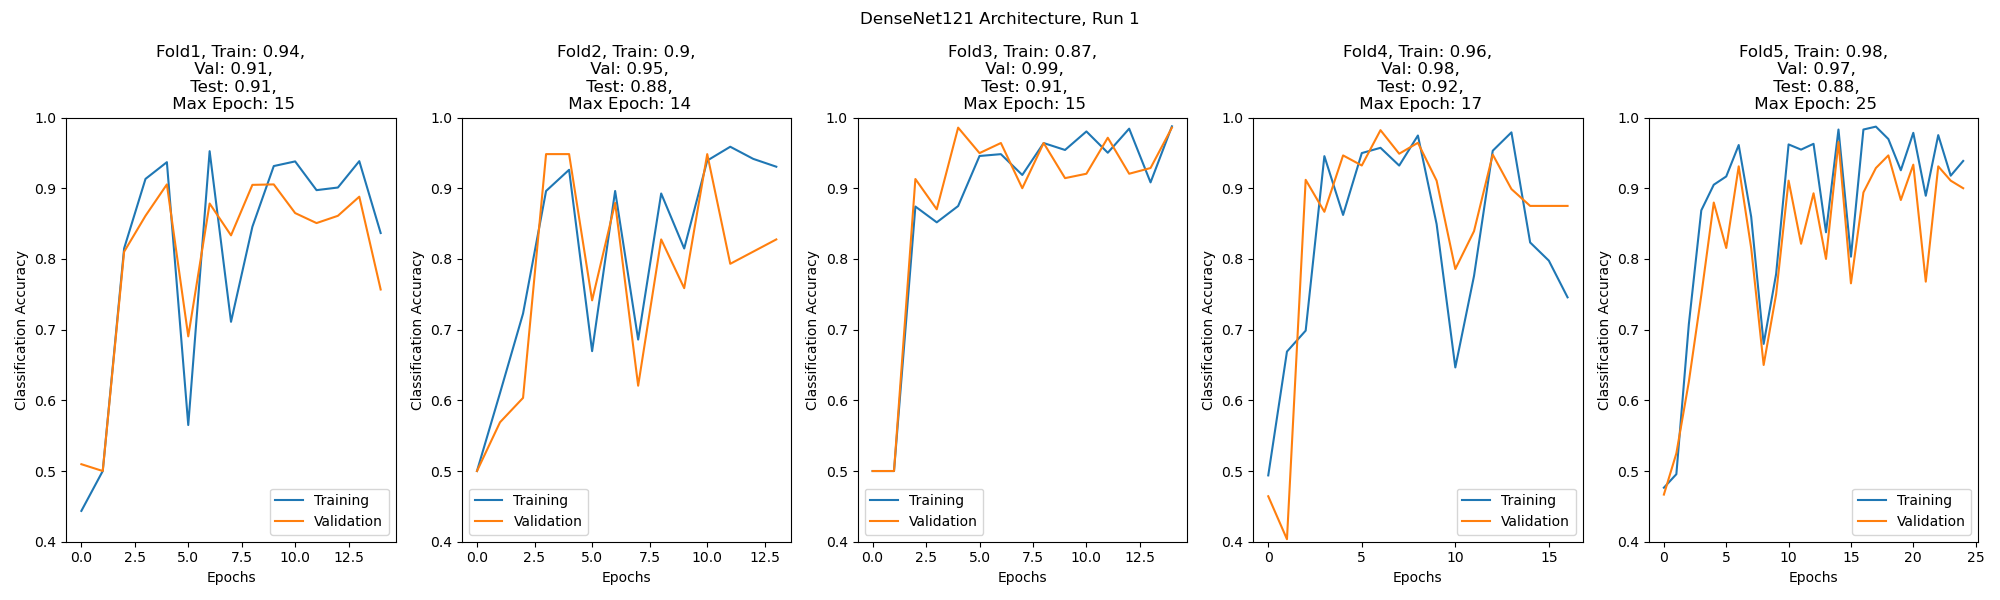
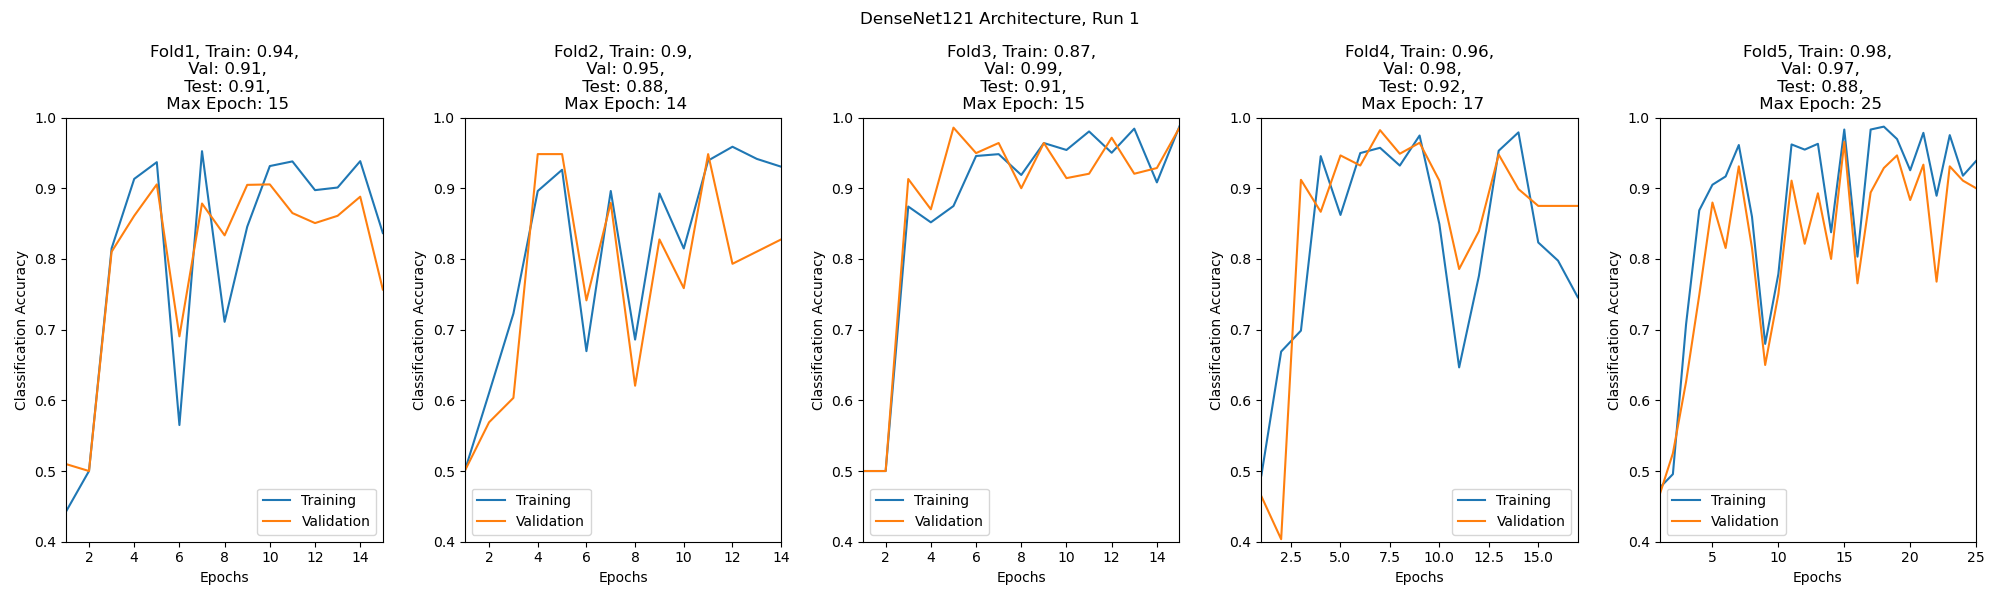
Add files via upload

diff --git a/ENEL_sex_classification.py b/ENEL_sex_classification.py
@@ -27,6 +27,7 @@ from monai.transforms import (
     ScaleIntensity,
 )
 
+#Set up the depthwise and pointwise operator layers in the bottleneck residual blocks of the MobileNetV2 architecture
 class DepthwiseSeparableConv3D(nn.Module):
     def __init__(self, in_channels, out_channels, kernel_size=3, stride=1, padding=1):
         super(DepthwiseSeparableConv3D, self).__init__()
@@ -38,6 +39,7 @@ class DepthwiseSeparableConv3D(nn.Module):
         x = self.pointwise(x)
         return x
 
+#Build out the MobileNetV2 architecture, using ReLu instead of ReLu6 and 13 instead of 17 bottleneck layers 
 class MobileNetV2_3D(nn.Module):
     def __init__(self, in_channels, num_classes=2):
         super(MobileNetV2_3D, self).__init__()
@@ -75,7 +77,7 @@ def set_random_seed(seed_value):
     torch.backends.cudnn.deterministic = True
     torch.backends.cudnn.benchmark = False
 
-#Define a function that will count the number 
+#Define a function that will count the number of patients in each class
 def extract_filenames(root_dir, class_names):
     image_files = [[os.path.join(root_dir, class_names[i], x) for x in os.listdir(os.path.join(root_dir, class_names[i]))] for i in range(len(class_names))]
     num_each = [len(files) for files in image_files]
@@ -83,6 +85,7 @@ def extract_filenames(root_dir, class_names):
     image_class_list = [i for i, num in enumerate(num_each) for _ in range(num)]
     return image_files_list, image_class_list, num_each
 
+#Define a function to call for cross-validation
 def split_data_values(data, fold_number, total_folds):
     # Calculate the size of each fold
     fold_size = len(data) // total_folds
@@ -118,10 +121,22 @@ for split, directory in directories.items():
     data[f"{split}_image_files_list"] = image_files_list
     data[f"{split}_image_class_list"] = image_class_list
     data[f"{split}_num_each"] = num_each
-    #for image_file in image_files_list:   
-      #nifti_img = nib.load(image_file)
-      #image_data = nifti_img.get_fdata()
-      #image_dimensions.append(image_data.shape)
+    for image_file in image_files_list:   
+      nifti_img = nib.load(image_file)
+      image_data = nifti_img.get_fdata()
+      image_dimensions.append(image_data.shape)
+      
+      #If you want to view the central slice of each MRI, uncomment the following lines. These lines will save each image to the root directory
+      
+      #slice_index = image_data.shape[0]/2
+      #selected_slice = image_data[int(slice_index),:,:]
+      #plt.imshow(selected_slice, cmap='gray')
+      #plt.axis('off')
+      #plt.colorbar()
+      #image_title = image_file.split('/')[-1][:-7]
+      #plt.imsave(root_dir+f'{image_data.shape}_{image_title}.png', selected_slice, cmap='gray')
+      #plt.close()
+      
     num_total = len(image_files_list)
     print(f"Total image count in {split}: {num_total}")
     print(f"Label counts in {split}: {num_each}")
@@ -146,7 +161,7 @@ for dimension in image_dimensions:
 for dimension, count in dimension_counts.items():
     print(f"{dimension}: {count}")
     
-#Print the original image size for user
+#Print the new image size for user
 new_img_size = (96, 128, 128)
 print(f"Images resized to: {new_img_size}")
 print(f"Label names: {class_names}")
@@ -183,29 +198,32 @@ class Dataset(torch.utils.data.Dataset):
         img = self.transforms(self.image_files[index])
         return img, self.labels[index]
 
+#Define the batch size according to the image sizes used and the GPU RAM available
 batch_size = 15
 print(f"Batch size: {batch_size}")
 
-
-
+#Define the number of runs through model development that will be performed, the number of folds in cross-validation, the types of architectures, and the directory to write results to
 total_runs = 3
 val_split = 5
 architectures = ['DenseNet121','MobileNetV2','ResNet18']
 results_dir = root_dir+'Results'
 
-"""
-
+#Loop through the types of architectures
 for architecture in architectures:
   os.makedirs(results_dir+f'/{architecture}', exist_ok=True)
+  
+  #Loop through the number of model development runs
   for run in np.arange(1,total_runs+1):   
       set_random_seed(run)   
       os.makedirs(results_dir+f'/{architecture}/Run{run}', exist_ok=True)
       
+      #Loop through the folds
       for fold in np.arange(1,val_split+1):
           torch.cuda.empty_cache()
           root_dir = results_dir+f'/{architecture}/Run{run}/Fold{fold}'  
           os.makedirs(root_dir, exist_ok=True)
           
+          #Define the training and testing data using cross validation
           data['train_x'],data['val_x'] = split_data_values(data['development_x'], fold, val_split)
           data['train_y'],data['val_y'] = split_data_values(data['development_y'], fold, val_split)
   
@@ -238,7 +256,7 @@ for architecture in architectures:
           
           optimizer = torch.optim.Adam(model.parameters(), 1e-4)
           
-          # start a typical PyTorch training
+          #Start a typical PyTorch training
           val_interval = 1
           best_metric = -1
           best_metric_epoch = -1
@@ -250,13 +268,15 @@ for architecture in architectures:
           
           results_list = []
           
+          #Loop through the number of epochs allowed for each fold
           for epoch in range(max_epochs):
               print("-" * 10)
               print(f"Architecture {architecture}, run {run}, fold {fold}, epoch {epoch + 1}/{max_epochs}")
               model.train()
               epoch_loss = 0
               step = 0
-          
+              
+              #Train the model
               for batch_data in train_loader:
                   step += 1
                   inputs, labels = batch_data[0].to(device), batch_data[1].to(device)
@@ -273,7 +293,8 @@ for architecture in architectures:
               epoch_loss /= step
               epoch_loss_values.append(epoch_loss)
               print(f"epoch {epoch + 1} average loss: {epoch_loss:.4f}")
-          
+              
+              #Evaluate the model on the training data and the validation data
               if (epoch + 1) % val_interval == 0:
                   model.eval()
                   train_y_true = []
@@ -301,7 +322,7 @@ for architecture in architectures:
                               val_y_true.append(torch.argmax(val_labels[i]).item())
                               val_y_pred.append(pred[i].item())
                 
-                  # Calculate balanced accuracy
+                  # Calculate balanced accuracy (only really necessary for imbalanced data)
                   train_metric = balanced_accuracy_score(train_y_true, train_y_pred)
                   val_metric = balanced_accuracy_score(val_y_true, val_y_pred)
                   metric_values.append(val_metric)
@@ -421,9 +442,9 @@ for architecture in architectures:
           np.save(os.path.join(root_dir, "testing_results.npy"), np.array(accuracy))
           
           print(class_accuracies)
-      
 
-"""
+
+#Define a function to plot the learning curve for all epochs of a single run
 def plot_learning_curves(results_folds, testing_folds, subplot_title, architecture, run, min_y, max_y):
     best_val = []
     best_train = []
@@ -450,11 +471,12 @@ def plot_learning_curves(results_folds, testing_folds, subplot_title, architectu
     
     for (subplot_label, subplot_data), ax in zip(data_lists.items(), axs.flatten()):
         for label, data in subplot_data.items():
-            ax.plot(range(len(data)), data, label=label)
+            ax.plot(np.arange(1,len(data)+1), data, label=label)
         ax.set_xlabel('Epochs')
         ax.set_ylabel('Classification Accuracy')
         ax.legend()
         ax.set_title(subplot_label)
+        ax.set_xlim(1, len(data))
         ax.set_ylim(min_y, max_y)
     
     plt.suptitle(title)
@@ -464,6 +486,7 @@ def plot_learning_curves(results_folds, testing_folds, subplot_title, architectu
     
     return best_train,best_val,best_test,np.min(max_epoch)
 
+#Define a function to extract the learning results from model development and model testing
 def results_full(architectures, total_runs, min_y, max_y):
     all_results = {}
     min_epoch_per_run = []
@@ -517,6 +540,7 @@ def results_full(architectures, total_runs, min_y, max_y):
     
     return all_results,np.min(min_epoch_per_run)
 
+#Define a function to calculate the statistical difference between validation results from different architectures
 def conduct_t_test(results_dict, metric):
     combinations = list(results_dict.keys())
     num_combinations = len(combinations)
@@ -548,7 +572,8 @@ def conduct_t_test(results_dict, metric):
                 print("Statistically different (Wilcoxon)\n")
             else:
                 print("Not statistically different (Wilcoxon)\n")
-    
+
+#Define a function to plot the average learning curves for training and validation for each architecture tested in model development
 def plot_average_learning_curve_single(architectures, results_dict,min_y,max_y,min_epoch_to_plot):
     
     colours = ['b', 'r', 'g']
@@ -564,6 +589,8 @@ def plot_average_learning_curve_single(architectures, results_dict,min_y,max_y,m
         
         train_std = results_array[1][0]
         valid_std = results_array[1][1]
+        
+        print(f'{architecture}, '+'Train-Validation: '+str(np.round(np.average(np.abs(train_score-valid_score)),3))+', Avg train std: '+str(np.round(np.average(train_std),3))+', Avg validation std: '+str(np.round(np.average(valid_std),3)))
         
         epochs = range(1, len(train_score) + 1)
         
@@ -598,6 +625,4 @@ results_dict,min_epoch_to_plot = results_full(architectures, total_runs, min_y, 
 conduct_t_test(results_dict,'Validation')
 
 plot_average_learning_curve_single(architectures,results_dict,min_y,max_y,min_epoch_to_plot)
-
-
   
